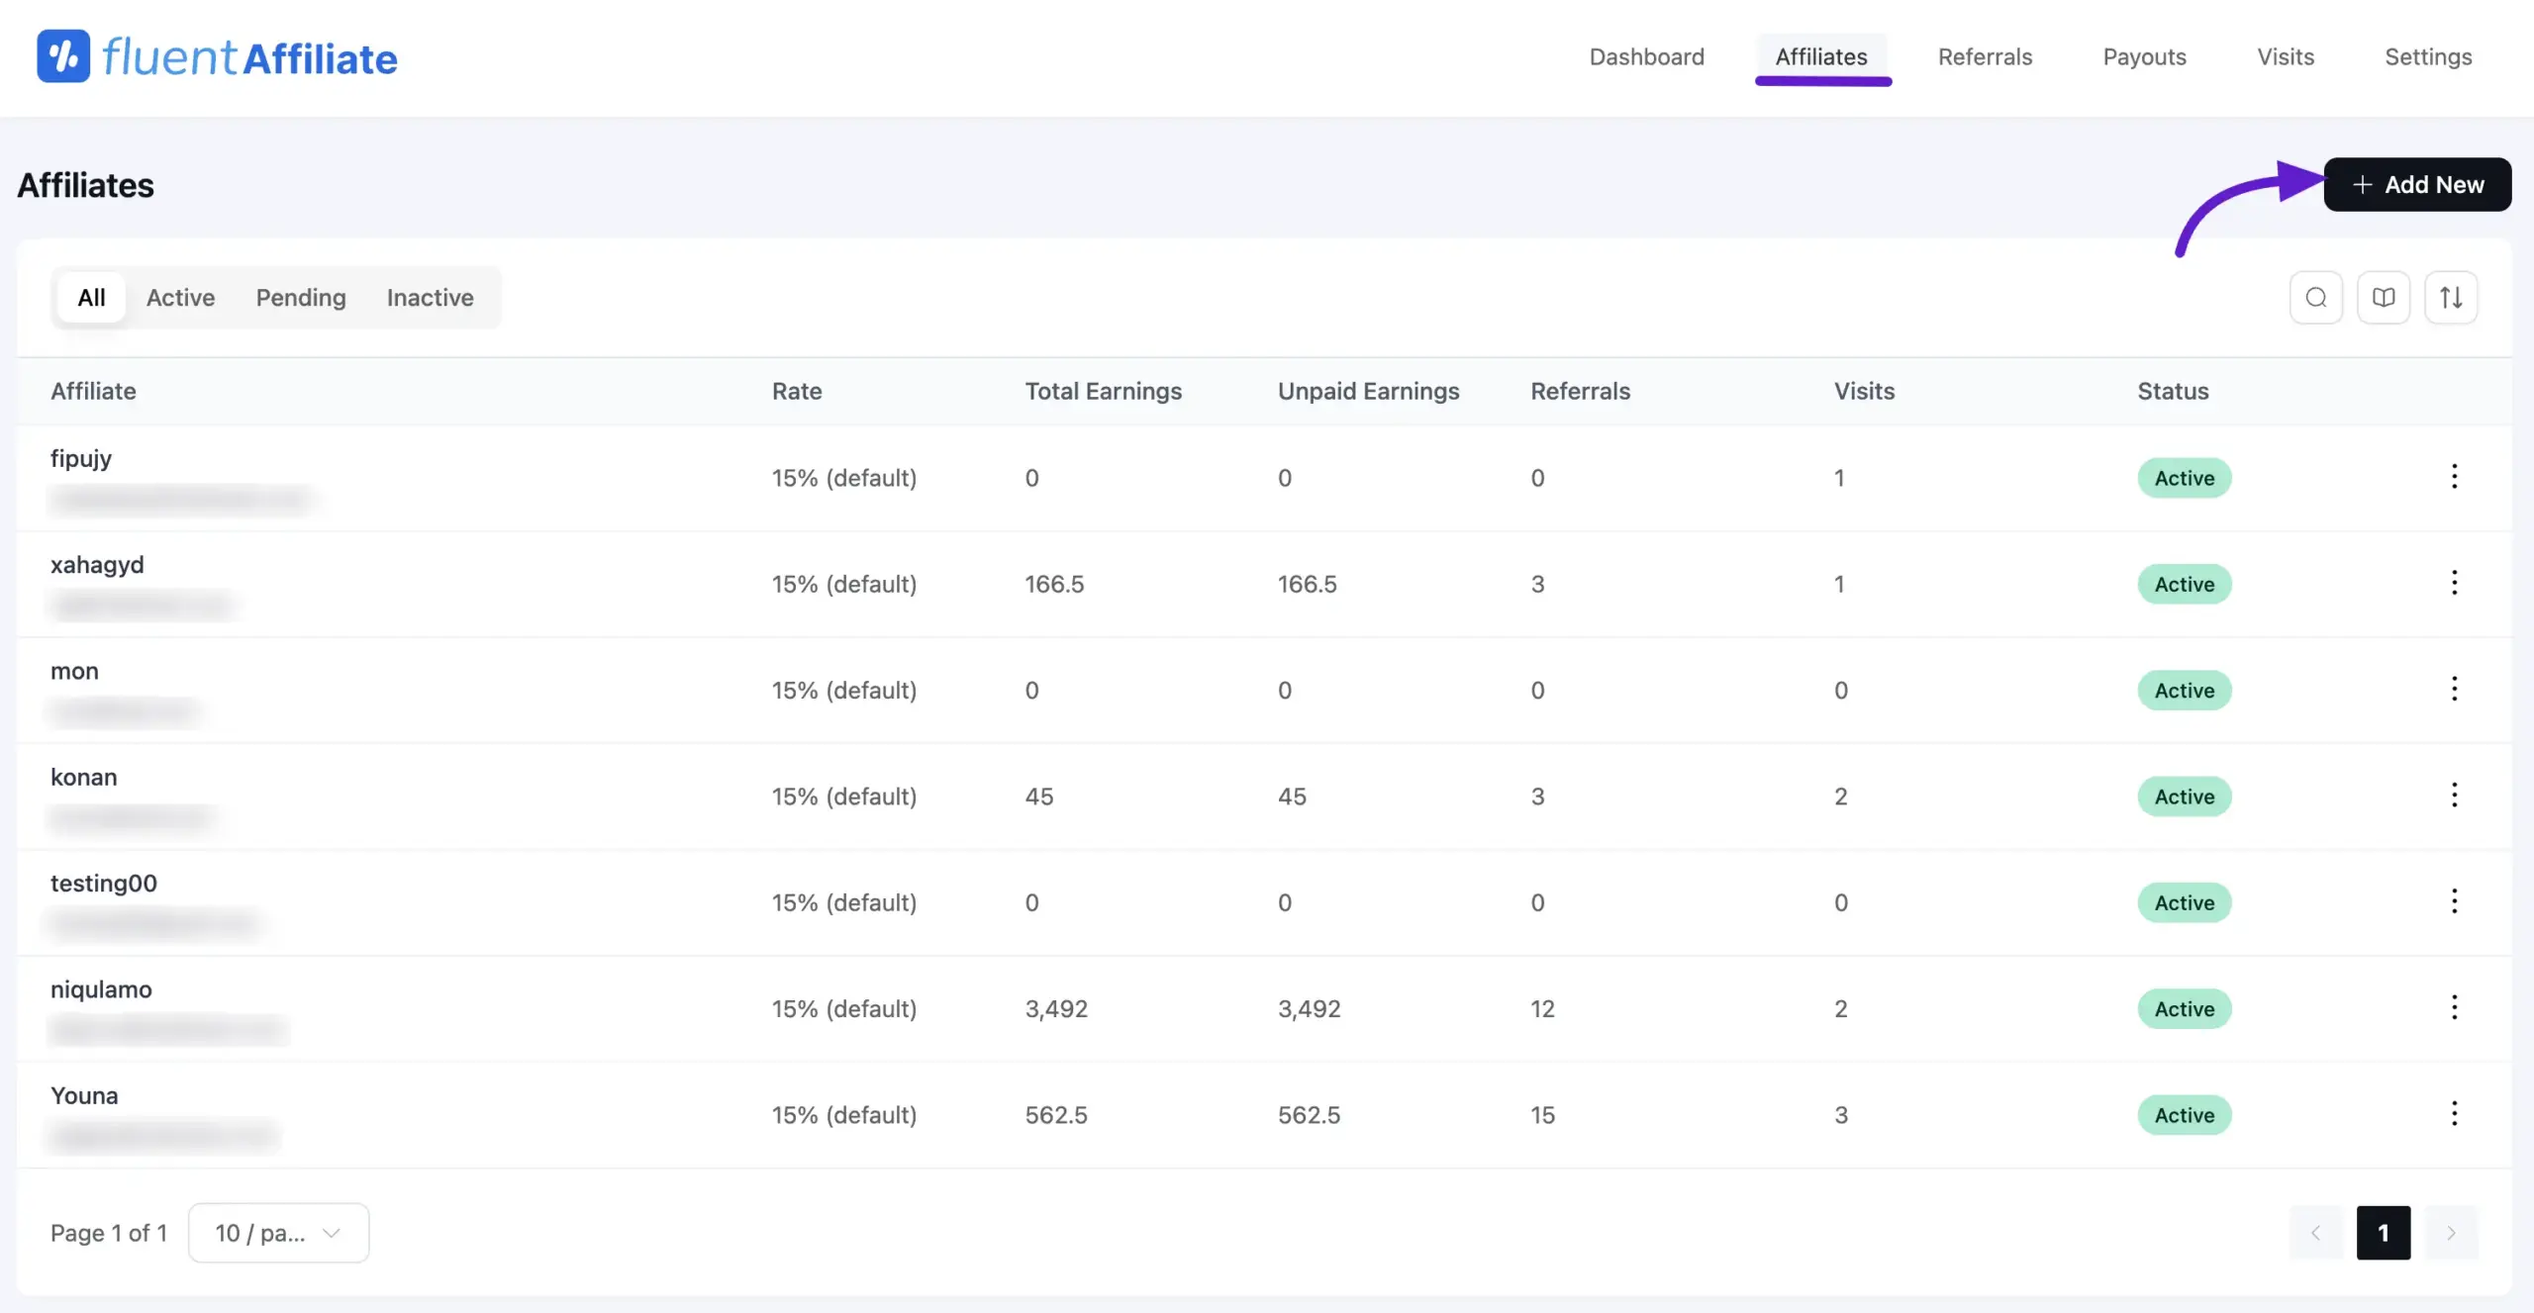
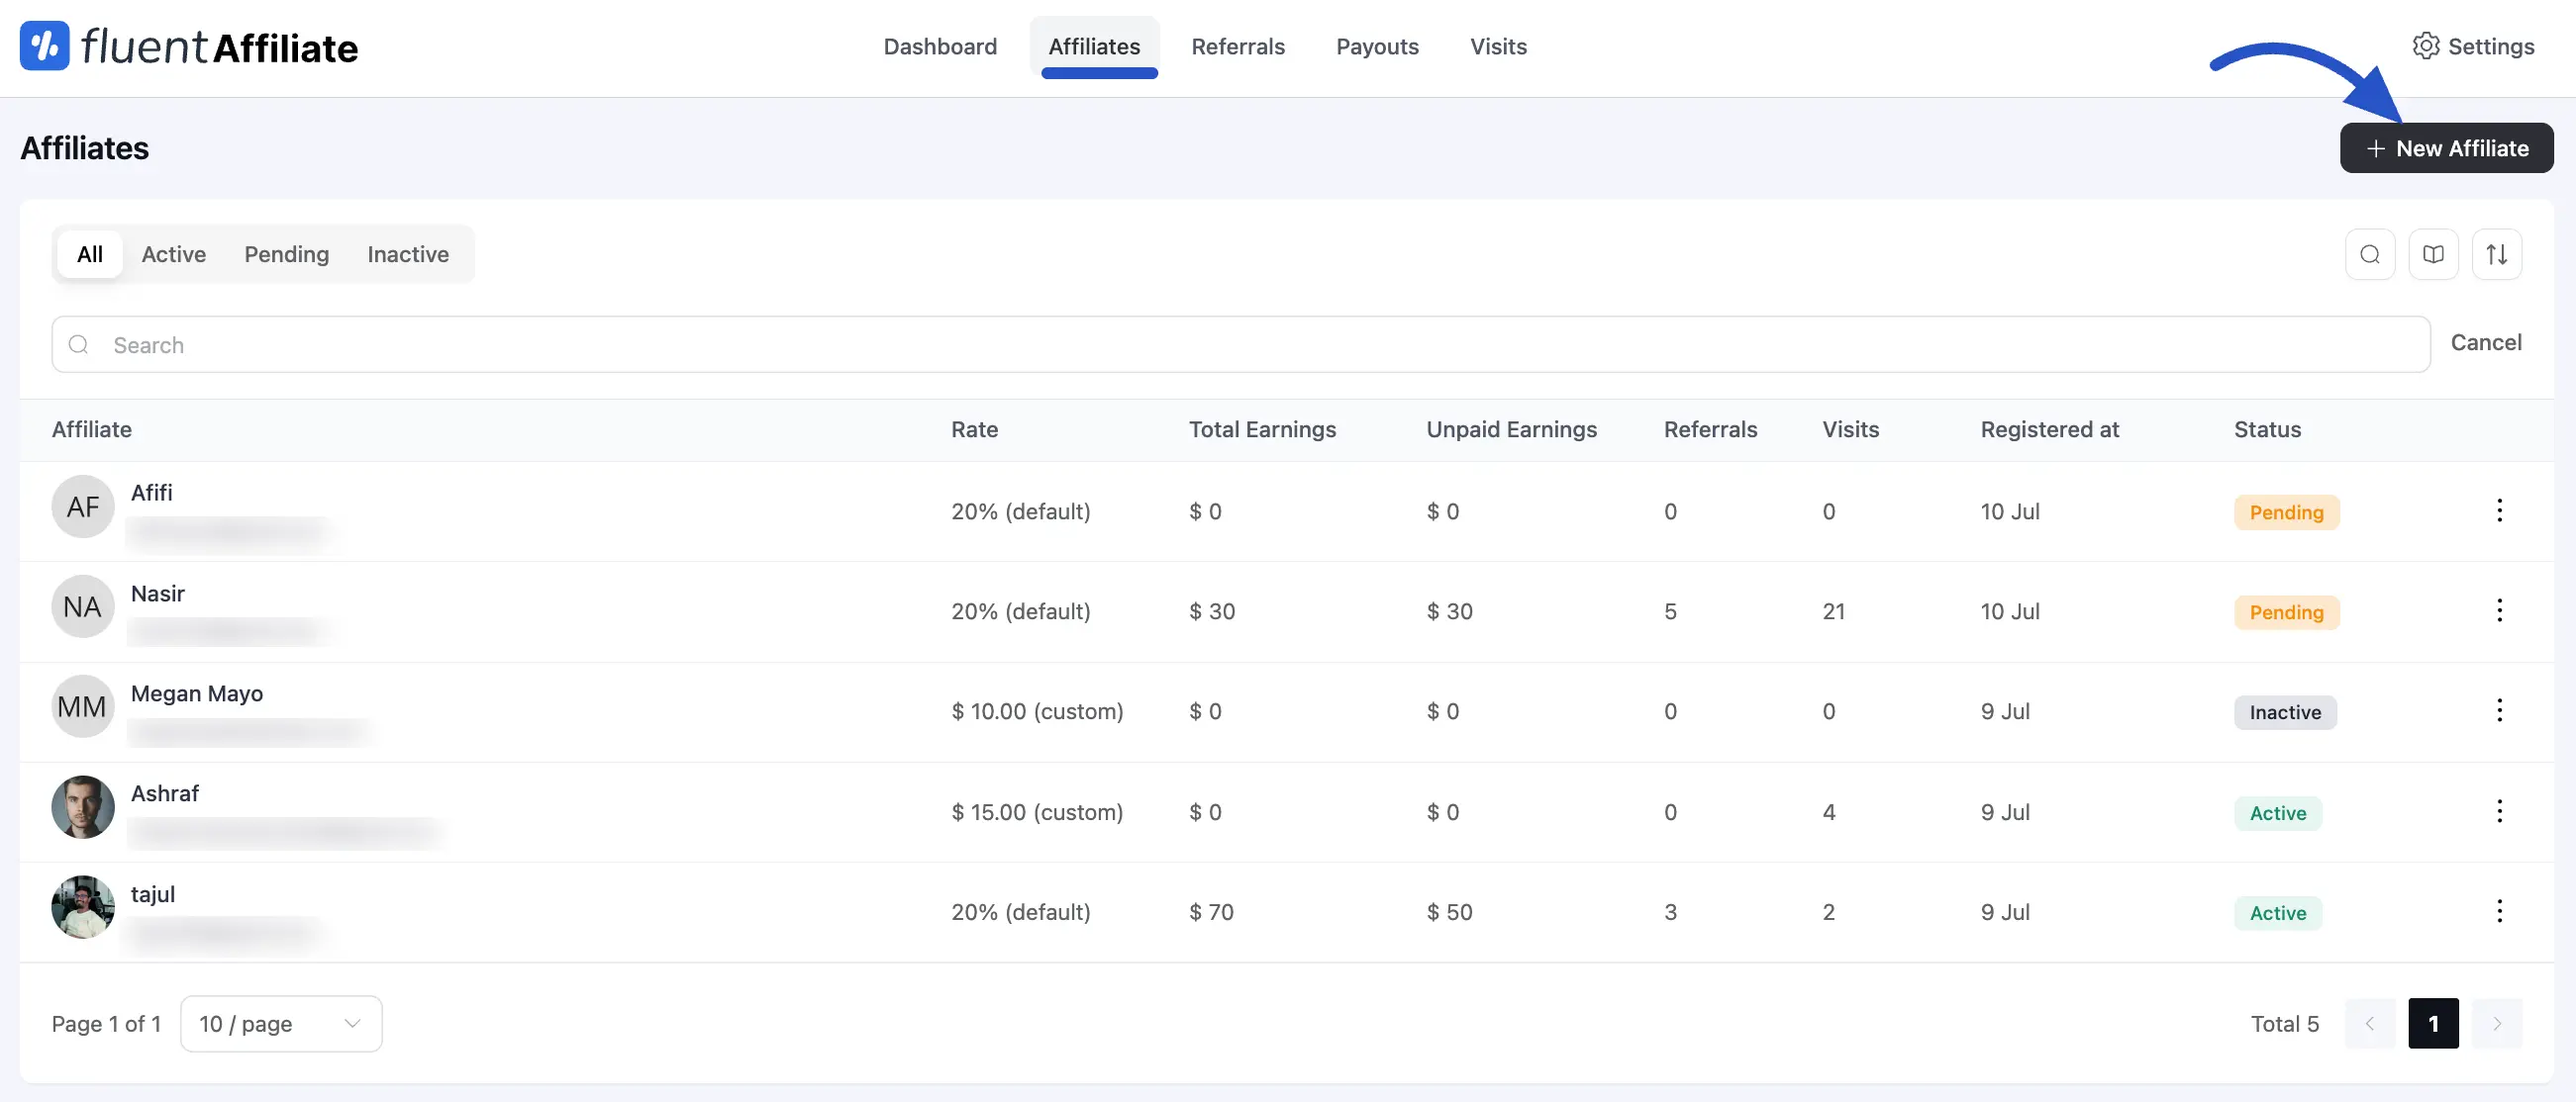
Managing affiliate
-change all section description
-change all image

diff --git a/guide/admin-portal/managing-affiliates.md b/guide/admin-portal/managing-affiliates.md
@@ -1,43 +1,59 @@
 # Managing Affiliates
 
-In FluentAffiliate, managing your affiliates is easy and organized. From the **Affiliates** section, you'll be able to see an overview of all your affiliates, manage their status, and even add new ones.
+In FluentAffiliate, managing your affiliates is easy and organized. The Affiliates page is your central hub to see a complete overview of all your affiliates, check their performance, manage their status, and even add new affiliates manually.
 
 In this guide, we'll walk you through what you can do on the Affiliates page. 
 
-### Affiliate Dashboard Overview
+## Affiliate Dashboard Overview
 
 First, go to the **Affiliates** tab from the FluentAffiliate menu. There, you'll see the affiliate dashboard with all your site's affiliate details. 
 
 Here's what you'll find in the **Affiliates** section:
 
-**a. Filter Options**  
-Easily filter affiliates by their status using four options: **All**, **Active**, **Pending**, and **Inactive**.
+### Adding a New Affiliate
 
-**b. Affiliates Details Table**  
-This table lists every affiliate along with useful details such as their **Name**, **Email**, **Rate**, **Total Earnings**, **Unpaid Earnings**, **Referrals**, **Visits**, and **Status**—giving you a clear picture of each affiliate's performance. 
+At the top right corner, you'll find the **+ New Affiliate** button. Click this to manually add a new affiliate to your program without requiring them to sign up themselves. (We'll show you how to do that later in this guide.) If you want affiliates to register themselves, see [How to Register as an Affiliate](../affiliate-portal/how-to-register-as-an-affiliate.md).
 
-**c. Add New**  
-Click the **Add New** button to manually add an affiliate to your site. (We'll show you how to do that later in this guide.) If you want affiliates to register themselves, see [How to Register as an Affiliate](../affiliate-portal/how-to-register-as-an-affiliate.md).
+### Filtering Your Affiliates 
 
-**d. Search Bar**  
-Quickly locate affiliates by typing their name or email address.
+Just below the page title, you'll see filter tabs that let you quickly segment your list:
+* **All:** Shows every affiliate in your program. 
+* **Active:** Shows only approved and active affiliates. 
+* **Pending:** Shows affiliates who have registered but are awaiting your approval. 
+* **Inactive:** Shows affiliates who have been deactivated.
 
-**e. Column Selector**  
-Customize your table view using the **Columns** button. Check or uncheck columns based on what info you want to display.
+### Affiliates Details Table
+This is the heart of the page, where every affiliate is listed with their key performance details. This gives you a clear and immediate picture of how each partner is doing. The columns include:
 
-**f. Sort Options**  
-Sort affiliates by **ID**, **Total Earnings**, **Unpaid Earnings**, **Referrals**, **Visits**, or **Registration Date**. You can also choose between ascending or descending order, then click **Apply** to update.
-
-**g. Edit/Delete**  
-Click the three-dot icon next to any affiliate to **Edit** their details or **Delete** them from the list.
-
-**h. Items Per Page**  
-Set how many affiliate entries you want to view per page.
-
-**i. Pagination Buttons**  
-Use these to navigate between pages of affiliate entries.
+* **Affiliate:** The name and email address of the affiliate. 
+* **Rate:** Their specific commission rate. 
+* **Total Earnings:** The total commissions they have ever earned. 
+* **Unpaid Earnings:** The approved earnings that are waiting to be paid out. 
+* **Referrals:** The total number of successful referrals they've made. 
+* **Visits:** The total number of clicks their links have received. 
+* **Registered at:** The date they joined your affiliate program. 
+* **Status:** Their current account status (e.g., Active, Pending, Inactive).
 
 ![Affiliate Management Dashboard](/guide/public/images/admin-portal/managing-affiliates/affiliate-list-overview.webp)
+
+### Managing Individual Affiliates
+
+At the end of each affiliate's row, you'll see a three-dot menu. Clicking this opens a list of actions you can take for that specific affiliate: 
+
+* **Edit:** Opens a panel where you can update the affiliate's details, such as their status or commission rate. 
+* **Delete:** Permanently removes the affiliate from your program.
+### Search and Sort Tools
+
+To the top-right of the table, you'll find icons to help you organize your view:
+
+* **Search Bar** Quickly locate affiliates by typing their name or email address.
+* **Column Selector** Customize your table view using the **Columns** button. Check or uncheck columns based on what info you want to display.
+* **Sort Options** Sort affiliates by **ID**, **Total Earnings**, **Unpaid Earnings**, **Referrals**, **Visits**, or **Registration Date**. You can also choose between ascending or descending order, then click **Apply** to update.
+
+![Affiliate Search and Sort Tools](/guide/public/images/admin-portal/managing-affiliates/search-and-sort-tools.webp)
+
+### Pagination Buttons  
+If you have a large number of affiliates, the controls at the bottom of the page help you navigate your list easily. You can set the number of **affiliates to show per page** and use the **arrow** buttons to move between pages. 
 
 ### Add a New Affiliate
 
@@ -49,13 +65,13 @@ Click the **Add New** button. A form will slide in from the right side of your s
 
 Fill in the following fields:
 
-* **User** – Select the user you want to turn into an affiliate.
+* **Select User** – Select the user you want to turn into an affiliate.
 * **Rate Type** – Choose how they'll earn (fixed or percentage).
 * **Status** – Set the affiliate status (approved, pending, or rejected).
 * **Payment Email** – Enter their PayPal or preferred payment email. 
 * **Note** – (Optional) Add any notes for internal use.
 
-Hit the **Submit** button to create a new affiliate. 
+Hit the **Create Affiliate** button to create a new affiliate. 
 
 ![Add Affiliate Form](/guide/public/images/admin-portal/managing-affiliates/add-affiliate-form.webp)
 
